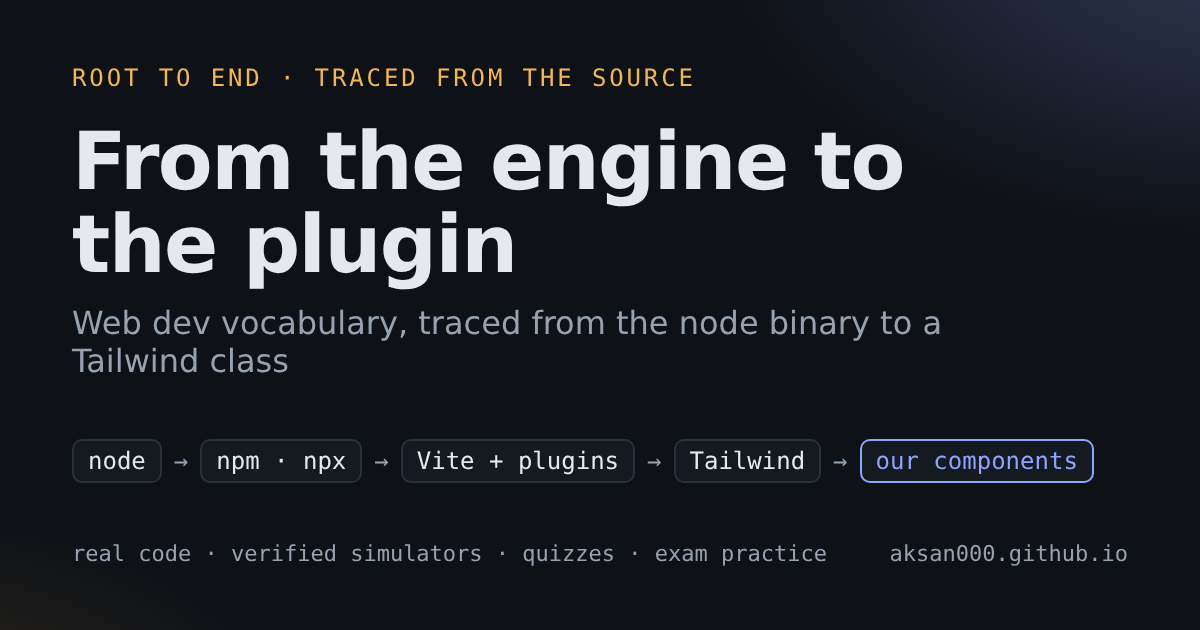
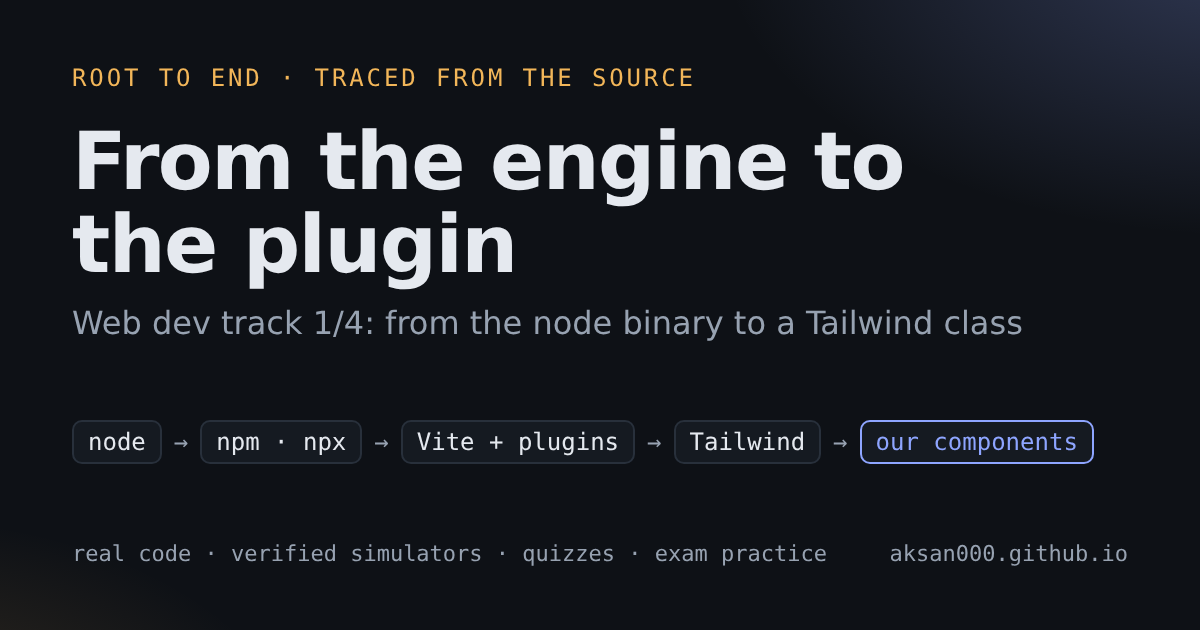
Web dev track: make web-dev-vocabulary page 1 of 4
The landing page gets a Web dev track (tools, JSX to the DOM, setState to
the screen, a Next.js page), the card and starting point name it, and the
page's eyebrow and neighbour line show its place. README roadmap lists the
three planned pages; STYLE.md, the folder README and the preview image
follow.

Changed region(s): [[0.0617, 0.6635, 0.925, 0.7841], [0.0617, 0.4825, 0.8633, 0.6032]]

diff --git a/index.html b/index.html
@@ -167,7 +167,7 @@ Promise.resolve().then(() =&gt; <b>log</b>("C"));
       <a href="js-event-loop/"><b>Learning JavaScript</b><span>Why <code>.then()</code> runs before <code>setTimeout</code>, traced into Chrome and V8.</span><span class="path"><em>event loop</em>→<em>V8</em>→<em>Browser track</em></span></a>
       <a href="lr-parser/"><b>Taking a compilers course</b><span>Build an SLR table from any grammar, then follow a real compiler through V8.</span><span class="path"><em>LR parsing</em>→<em>V8 pipeline</em></span></a>
       <a href="autograd/"><b>Learning machine learning</b><span>What <code>loss.backward()</code> actually does, from the chain rule to PyTorch's C++ engine.</span><span class="path"><em>autograd</em>→<em>transformer</em></span></a>
-      <a href="web-dev-vocabulary/"><b>Starting web development</b><span>Node, npm, npx, Vite, plugins and Tailwind classes, each traced to its code, with a trainer to make them stick.</span><span class="path"><em>tools</em>→<em>event loop</em>→<em>Browser track</em></span></a>
+      <a href="web-dev-vocabulary/"><b>Starting web development</b><span>Node, npm, npx, Vite, plugins and Tailwind classes, each traced to its code, with a trainer to make them stick.</span><span class="path"><em>Web dev track</em>→<em>event loop</em>→<em>Browser track</em></span></a>
       <a href="fetch-to-the-wire/"><b>Curious how browsers work</b><span>A request goes out, the response becomes pixels, and a click comes back to our code.</span><span class="path"><em>fetch()</em>→<em>pixels</em>→<em>click</em></span></a>
     </div>
   </section>
@@ -289,11 +289,22 @@ Promise.resolve().then(() =&gt; <b>log</b>("C"));
         <div class="chain" aria-label="Layers traced">
           <span>main()</span><i>→</i><span>Node · browser</span><i>→</i><span>npm · npx</span><i>→</i><span>Vite plugins</span><i>→</i><span>Tailwind</span><i>→</i><span class="you">our components</span>
         </div>
-        <div class="meta"><span class="tag">Web development</span><span class="tag">npm</span><span class="tag">Vite</span><span class="tag">Tailwind CSS</span><span class="tag">learning</span><span class="tag">About 25 min</span></div>
-        <p class="need">Needs: nothing beyond basic JavaScript. A good first page before the event-loop page and the Browser track.</p>
+        <div class="meta"><span class="tag">Web dev track 1/4</span><span class="tag">npm</span><span class="tag">Vite</span><span class="tag">Tailwind CSS</span><span class="tag">learning</span><span class="tag">About 25 min</span></div>
+        <p class="need">Needs: nothing beyond basic JavaScript. Opens the Web dev track; a good first page before the event-loop page and the Browser track.</p>
       </div>
       <span class="go">Open →</span>
     </a>
+  </section>
+
+  <section>
+    <h2>Web dev track</h2>
+    <p class="maplede">From the tools on our machine to a running React and Next.js app: what npm, Vite and Tailwind do before the browser sees our code, then how React turns components into DOM and keeps it up to date, then how Next.js serves a page. It is the path of a first React project, and it hands over to the Browser track for what the browser does next.</p>
+    <nav class="map" aria-label="Web dev track">
+      <a href="web-dev-vocabulary/">1 · node → npm → Vite → Tailwind<small>live</small></a><i>→</i>
+      <span class="soon">2 · JSX → fibers → the DOM<small>next</small></span><i>→</i>
+      <span class="soon">3 · setState → reconcile → commit<small>planned</small></span><i>→</i>
+      <span class="soon">4 · a URL → a Next.js page<small>planned</small></span>
+    </nav>
   </section>
 
   <section>
@@ -325,7 +336,7 @@ Promise.resolve().then(() =&gt; <b>log</b>("C"));
       <a href="threads-vs-event-loop/">thread → schedule() → CPU<small>threads-vs-event-loop</small></a>
     </nav>
     <p class="maplede" style="margin-top:12px">And sideways, out of the machine: <a href="fetch-to-the-wire/">fetch-to-the-wire</a> follows the network request that the event-loop page's wake chain starts from.</p>
-    <p class="maplede" style="margin-top:8px">And one step before all of it: <a href="web-dev-vocabulary/">web-dev-vocabulary</a> shows the tools on our own machine (Node, npm, Vite and its plugins) that prepare the code these pages follow.</p>
+    <p class="maplede" style="margin-top:8px">And one step before all of it: the <a href="web-dev-vocabulary/">Web dev track</a> starts with the tools on our own machine (Node, npm, Vite and its plugins) that prepare the code these pages follow.</p>
   </section>
 
   <footer>Source and notes on <a href="https://github.com/aksaN000/Root-to-End-of-Random-Technical-Concepts">GitHub</a>. Found a mistake? <a href="https://github.com/aksaN000/Root-to-End-of-Random-Technical-Concepts/issues/new?template=mistake.yml">Report it</a>, or <a href="https://github.com/aksaN000/Root-to-End-of-Random-Technical-Concepts/issues/new?template=topic.yml">suggest a topic</a>. Want to check our claims? <a href="https://github.com/aksaN000/Root-to-End-of-Random-Technical-Concepts/blob/main/TESTING.md">Here is how to test everything</a>. Code excerpts belong to their original projects and are used under their licenses.</footer>

diff --git a/web-dev-vocabulary/index.html b/web-dev-vocabulary/index.html
@@ -218,12 +218,13 @@ input[type=range]{padding:0;accent-color:var(--accent)}
 <main style="min-width:0">
 <header class="hero">
   <a class="back" href="../">← Root to End</a>
-  <span class="eyebrow">Web development foundations · checked against npm 10.9.4 and Tailwind CSS 4.3.3</span>
+  <span class="eyebrow">Web dev track · 1 of 4 · checked against npm 10.9.4 and Tailwind CSS 4.3.3</span>
   <h1>From the engine to the plugin</h1>
   <p class="lede">Node, npm, npx, package, registry, scope, library, framework, dev server, bundler, API, callback, hook, plugin, utility class. Starting a React project means meeting all of these words at once. We put each one where it lives, from the <code>node</code> binary up to the Tailwind class on our button, and show the real code behind it. Two labs read commands and class names exactly the way npm and Tailwind do. The last part covers how to keep all of it in our heads: what memory research says, and a trainer that uses it. This page picks up below the <a href="../v8-pipeline/">V8 page</a> and the <a href="../js-event-loop/">event-loop page</a>, which explain how the engine runs our code once it gets there.</p>
   <div class="journey" aria-label="Layers this page follows">
     <a class="st-k" href="#root">node binary</a><i>→</i><a class="st-m" href="#runtimes">runtime</a><i>→</i><a class="st-c" href="#packages">packages</a><i>→</i><a class="st-c" href="#commands">npm · npx</a><i>→</i><a class="st-b" href="#tools">Vite + plugins</a><i>→</i><a class="st-b" href="#tailwind">Tailwind classes</a><i>→</i><a class="st-j" href="#journey">our components</a>
   </div>
+  <p style="font-size:.9rem;margin:0">Web dev track: <b>1 · From the engine to the plugin</b> · next: 2 · From JSX to the DOM (planned) · then 3 · From setState to the screen and 4 · From a URL to a Next.js page. After the track: the <a href="../fetch-to-the-wire/">Browser track</a>.</p>
   <nav class="mobile-toc" aria-label="Sections">
     <a href="#root">Root</a><a href="#runtimes">Runtimes</a><a href="#packages">Packages</a><a href="#commands">Commands</a><a href="#cmdlab">Command lab</a><a href="#tools">Tools</a><a href="#extend">Plugins</a><a href="#tailwind">Tailwind</a><a href="#twlab">Class lab</a><a href="#journey">Our project</a><a href="#remember">Remembering</a><a href="#trainer">Trainer</a><a href="#try">Try it</a><a href="#exam">Exam</a><a href="#reading">Reading</a>
   </nav>

diff --git a/tools/seo.py b/tools/seo.py
@@ -35,7 +35,7 @@ PAGES=[
   "From the chain rule to loss.backward()","PyTorch's autograd engine, from the chain rule to .grad",["chain rule","grad_fn graph","engine","AccumulateGrad",".grad"],["autograd","backpropagation","PyTorch","automatic differentiation","reverse mode","computational graph","gradient"]),
  ("web-dev-vocabulary/index.html","web-dev-vocabulary/","web-dev-vocabulary","Web Dev Vocabulary from the Source: Node, npm, npx, Vite, Plugins and Tailwind | Root to End",
   "Node, npm, npx, packages, scopes, Vite, plugins, hooks and Tailwind classes, traced to the real code, with labs that match npm and Tailwind exactly, and a spaced recall trainer.",
-  "From the engine to the plugin","Web dev vocabulary, traced from the node binary to a Tailwind class",["node","npm · npx","Vite + plugins","Tailwind","our components"],["npm","npx","Node.js","Vite","Tailwind CSS","package.json","semver","plugins","spaced repetition","web development"]),
+  "From the engine to the plugin","Web dev track 1/4: from the node binary to a Tailwind class",["node","npm · npx","Vite + plugins","Tailwind","our components"],["npm","npx","Node.js","Vite","Tailwind CSS","package.json","semver","plugins","spaced repetition","web development"]),
 ]
 def head(path,url,slug,title,desc,kw):
     u=BASE+url; img=BASE+"assets/og/"+slug+".png"

diff --git a/README.md b/README.md
@@ -8,7 +8,7 @@ Interactive simulations I build while learning computer science, each one tracin
 
 | Topic | What it traces | Open |
 |---|---|---|
-| [From the engine to the plugin](web-dev-vocabulary/) | The words a React project starts with, from the `node` binary's `main()` through runtimes, packages, the registry and scopes, how npm and npx read a command (model matches npm 10's own code on 4,793 cases), Vite's transform hook and plugins, and the CSS behind a Tailwind class (model matches Tailwind CSS 4 on 2,183 classes), ending with what memory research says and a spaced recall trainer | [web-dev-vocabulary/index.html](web-dev-vocabulary/index.html) |
+| [From the engine to the plugin](web-dev-vocabulary/) | Web dev track 1/4: the words a React project starts with, from the `node` binary's `main()` through runtimes, packages, the registry and scopes, how npm and npx read a command (model matches npm 10's own code on 4,793 cases), Vite's transform hook and plugins, and the CSS behind a Tailwind class (model matches Tailwind CSS 4 on 2,183 classes), ending with what memory research says and a spaced recall trainer | [web-dev-vocabulary/index.html](web-dev-vocabulary/index.html) |
 | [JavaScript event loop](js-event-loop/) | `fetch().then()` from process creation through Chromium's `RendererMain`, `MessagePumpDefault::Run`, the kernel wait, V8's promise builtins and the microtask queue, plus a playground that steps through our own async code and checks itself against the real engine | [js-event-loop/index.html](js-event-loop/index.html) |
 | [How V8 runs our JavaScript](v8-pipeline/) | One expression through V8's scanner, precedence-climbing parser, bytecode generator and Ignition interpreter, then hidden classes, inline caches, tiering and deoptimization. The bytecode model is verified against Node's V8 (`v8-pipeline/verify/`) | [v8-pipeline/index.html](v8-pipeline/index.html) |
 | [LR parser we can step through](lr-parser/) | Any grammar → FIRST/FOLLOW → LR(0) item sets → SLR table → step-by-step parse with a growing tree, then real GNU Bison: `yyparse`, default reductions, the dangling-else conflict, and why LALR beats SLR | [lr-parser/index.html](lr-parser/index.html) |
@@ -22,9 +22,12 @@ Interactive simulations I build while learning computer science, each one tracin
 
 Planned, roughly in order. New topics come at our own pace; [suggest one](https://github.com/aksaN000/Root-to-End-of-Random-Technical-Concepts/issues/new?template=topic.yml).
 
-1. **`hello.c` to `main`.** Compiler, linker, the ELF file, `execve`, the dynamic loader and `_start`.
-2. **ML track 2/2: one token through a transformer.** Embeddings, attention, the KV cache, and logits to softmax to sampling, checked against a real small model.
-3. **`malloc` to a page fault.** glibc's allocator, `brk` and `mmap`, page tables and the kernel's fault handler.
+1. **Web dev track 2/4: from JSX to the DOM.** `createRoot`, React elements, fibers, the render and commit phases, and event delegation at the root, checked against real React.
+2. **Web dev track 3/4: from setState to the screen.** The hook list on a fiber, update queues, batching, reconciliation and keys.
+3. **Web dev track 4/4: from a URL to a Next.js page.** File-based routing, server and client components, and what the server sends.
+4. **`hello.c` to `main`.** Compiler, linker, the ELF file, `execve`, the dynamic loader and `_start`.
+5. **ML track 2/2: one token through a transformer.** Embeddings, attention, the KV cache, and logits to softmax to sampling, checked against a real small model.
+6. **`malloc` to a page fault.** glibc's allocator, `brk` and `mmap`, page tables and the kernel's fault handler.
 
 ## How to view
 

diff --git a/STYLE.md b/STYLE.md
@@ -59,7 +59,7 @@ The left rail lists the frames as a call stack (bottom = root layer). The mobile
 
 ## Tracks
 
-Related pages form a **track** that follows one interaction or one pipeline, each page picking up where the previous one stops (for example the Browser track: `fetch()` → HTML to pixels → a click to our listener; the ML track: autograd → a transformer). The hero eyebrow says "<Track> track · n of N", the landing page lists the track with live, next and planned pages, and each page links to its neighbours. Plain API syntax that MDN already teaches well is linked from the reading list, not repeated; our pages explain the mechanism underneath.
+Related pages form a **track** that follows one interaction or one pipeline, each page picking up where the previous one stops (for example the Web dev track: the tools → JSX to the DOM → setState to the screen → a Next.js page; the Browser track: `fetch()` → HTML to pixels → a click to our listener; the ML track: autograd → a transformer). The hero eyebrow says "<Track> track · n of N", the landing page lists the track with live, next and planned pages, and each page links to its neighbours. Plain API syntax that MDN already teaches well is linked from the reading list, not repeated; our pages explain the mechanism underneath.
 
 ## Visual system
 
@@ -91,7 +91,7 @@ Related pages form a **track** that follows one interaction or one pipeline, eac
 
 ## Changelog
 
-- **2026-10-12**: Web dev vocabulary page (`web-dev-vocabulary`), with a command model checked against npm's own code and a Tailwind model checked against the real compiler. New rules: run a command-line tool's own code in its check, extract copied tables with a script that fails on drift, and a remembering section with a recall trainer for vocabulary-heavy pages. The landing page has a fifth starting point.
+- **2026-10-12**: Web dev track, page 1 of 4 (`web-dev-vocabulary`), with a command model checked against npm's own code and a Tailwind model checked against the real compiler. New rules: run a command-line tool's own code in its check, extract copied tables with a script that fails on drift, and a remembering section with a recall trainer for vocabulary-heavy pages. The landing page has a Web dev track and a fifth starting point.
 
 - **2026-10-10**: ML track page 1 (`autograd`), checked against real PyTorch. New rule: compare a library's internals, not just its answers. The landing page has an ML track and a fourth starting point.
 

diff --git a/web-dev-vocabulary/README.md b/web-dev-vocabulary/README.md
@@ -1,6 +1,6 @@
 # From the engine to the plugin
 
-The vocabulary of a React + Vite + Tailwind project, each word put where it lives and traced to the code behind it, plus how to remember it all.
+Web dev track, page 1 of 4. The vocabulary of a React + Vite + Tailwind project, each word put where it lives and traced to the code behind it, plus how to remember it all.
 
 ## What it covers
 
